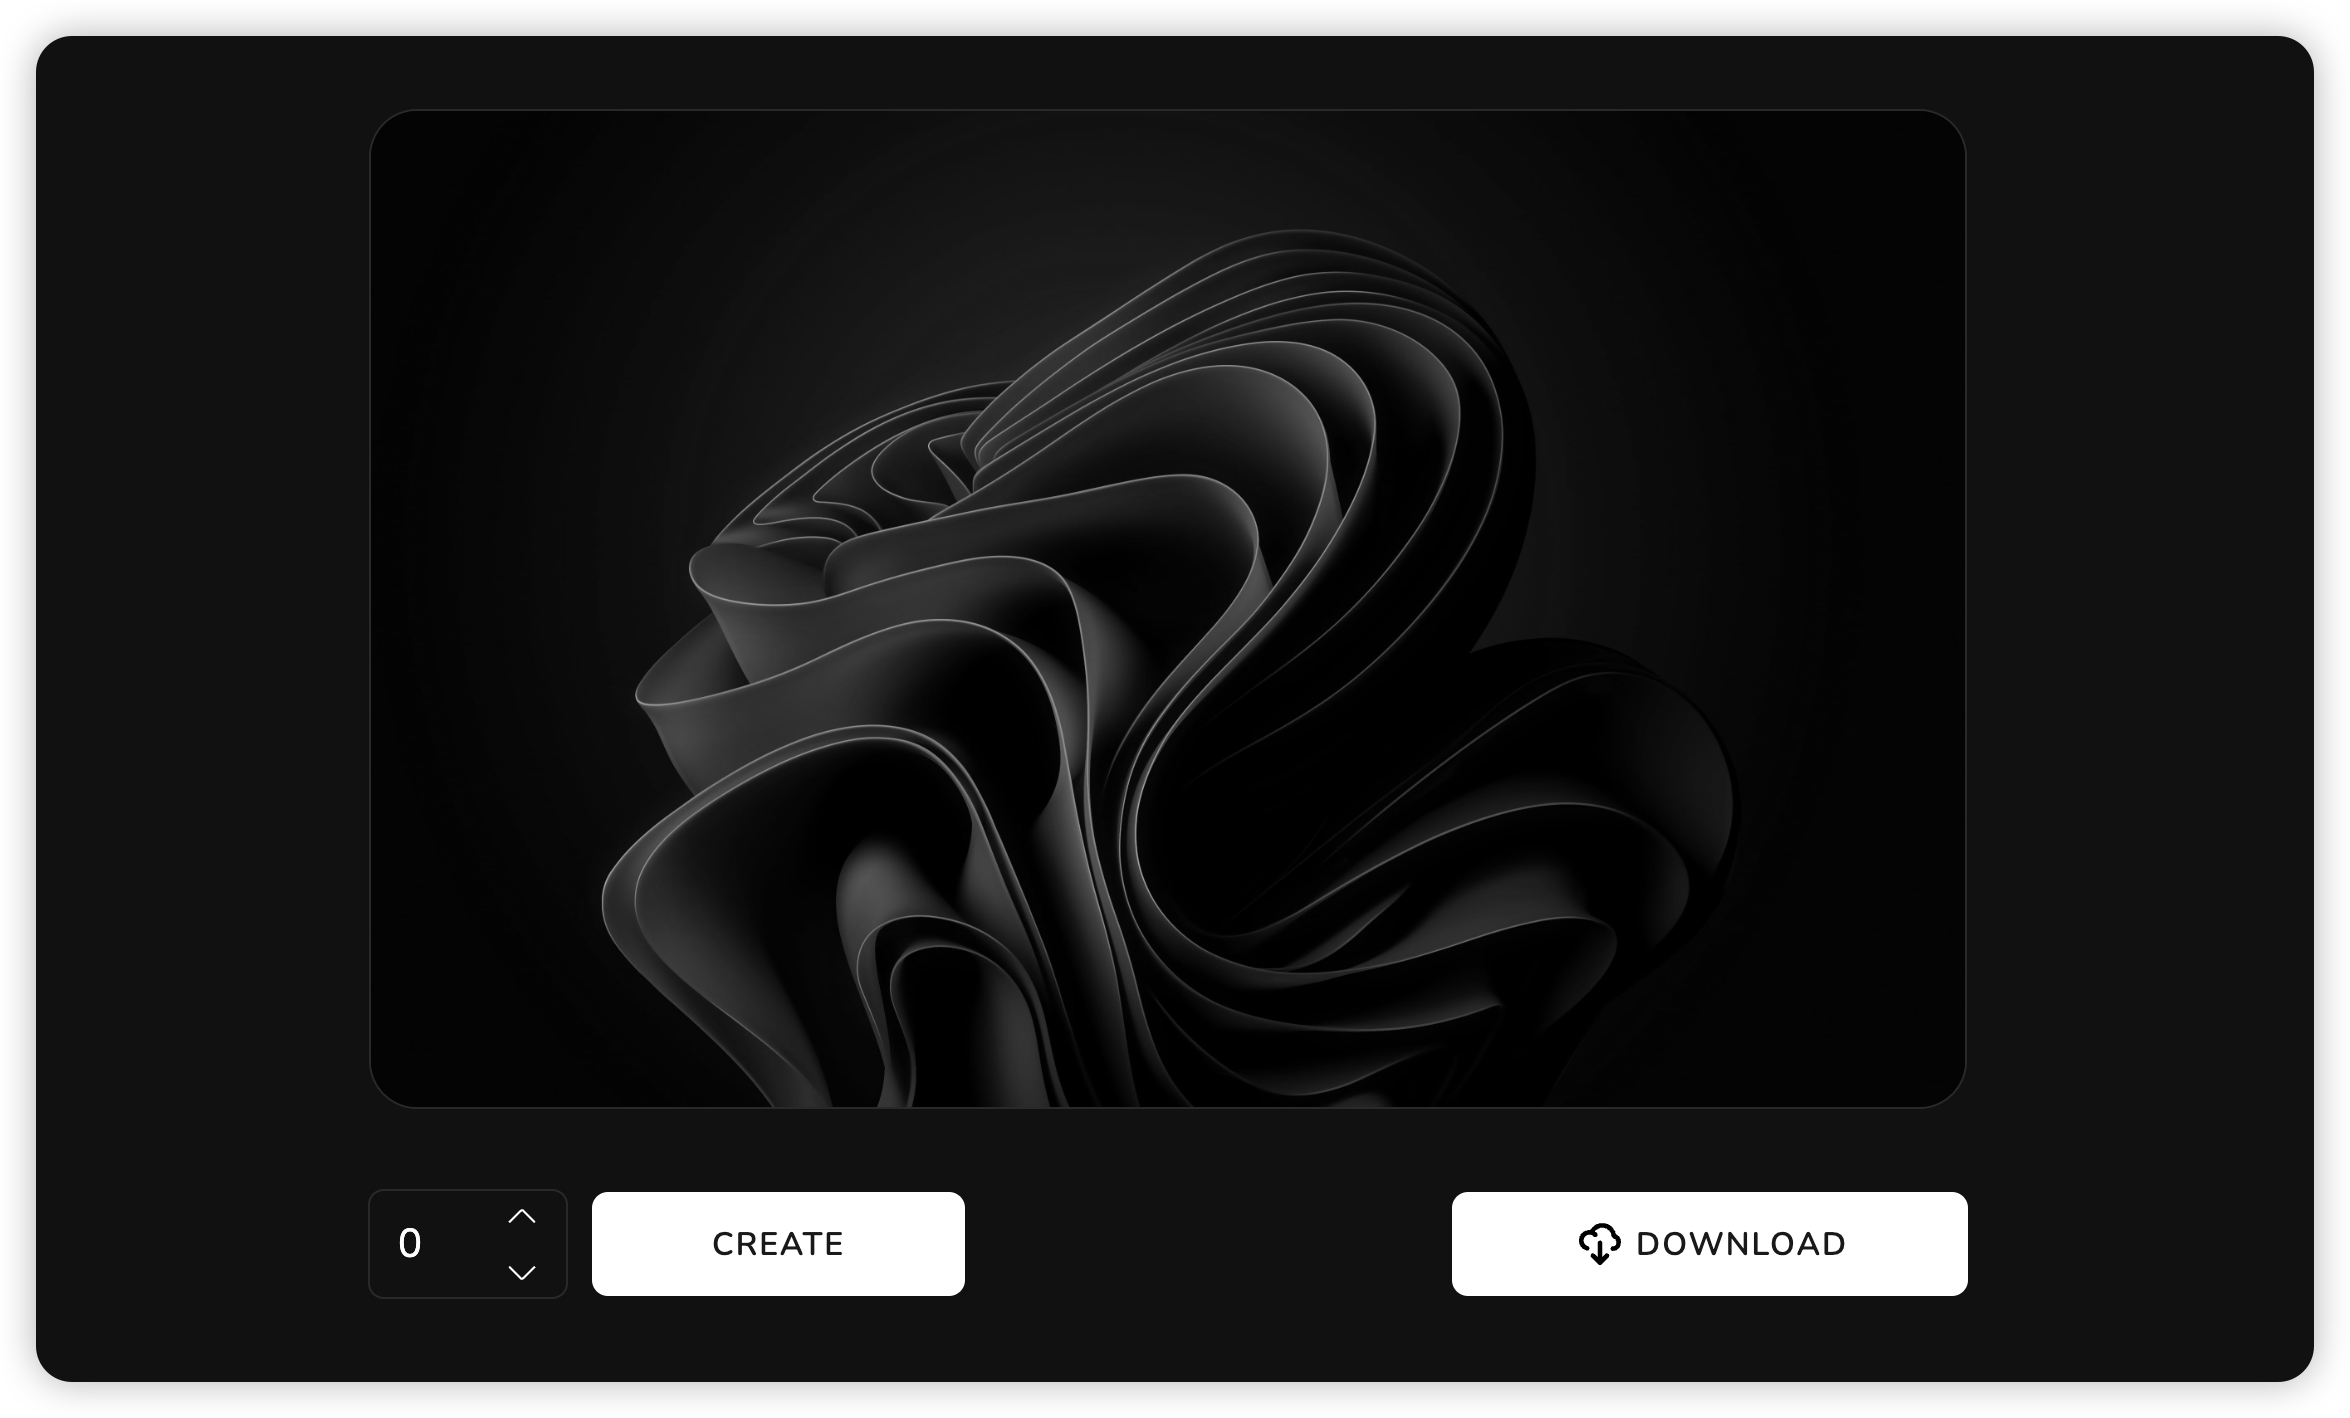
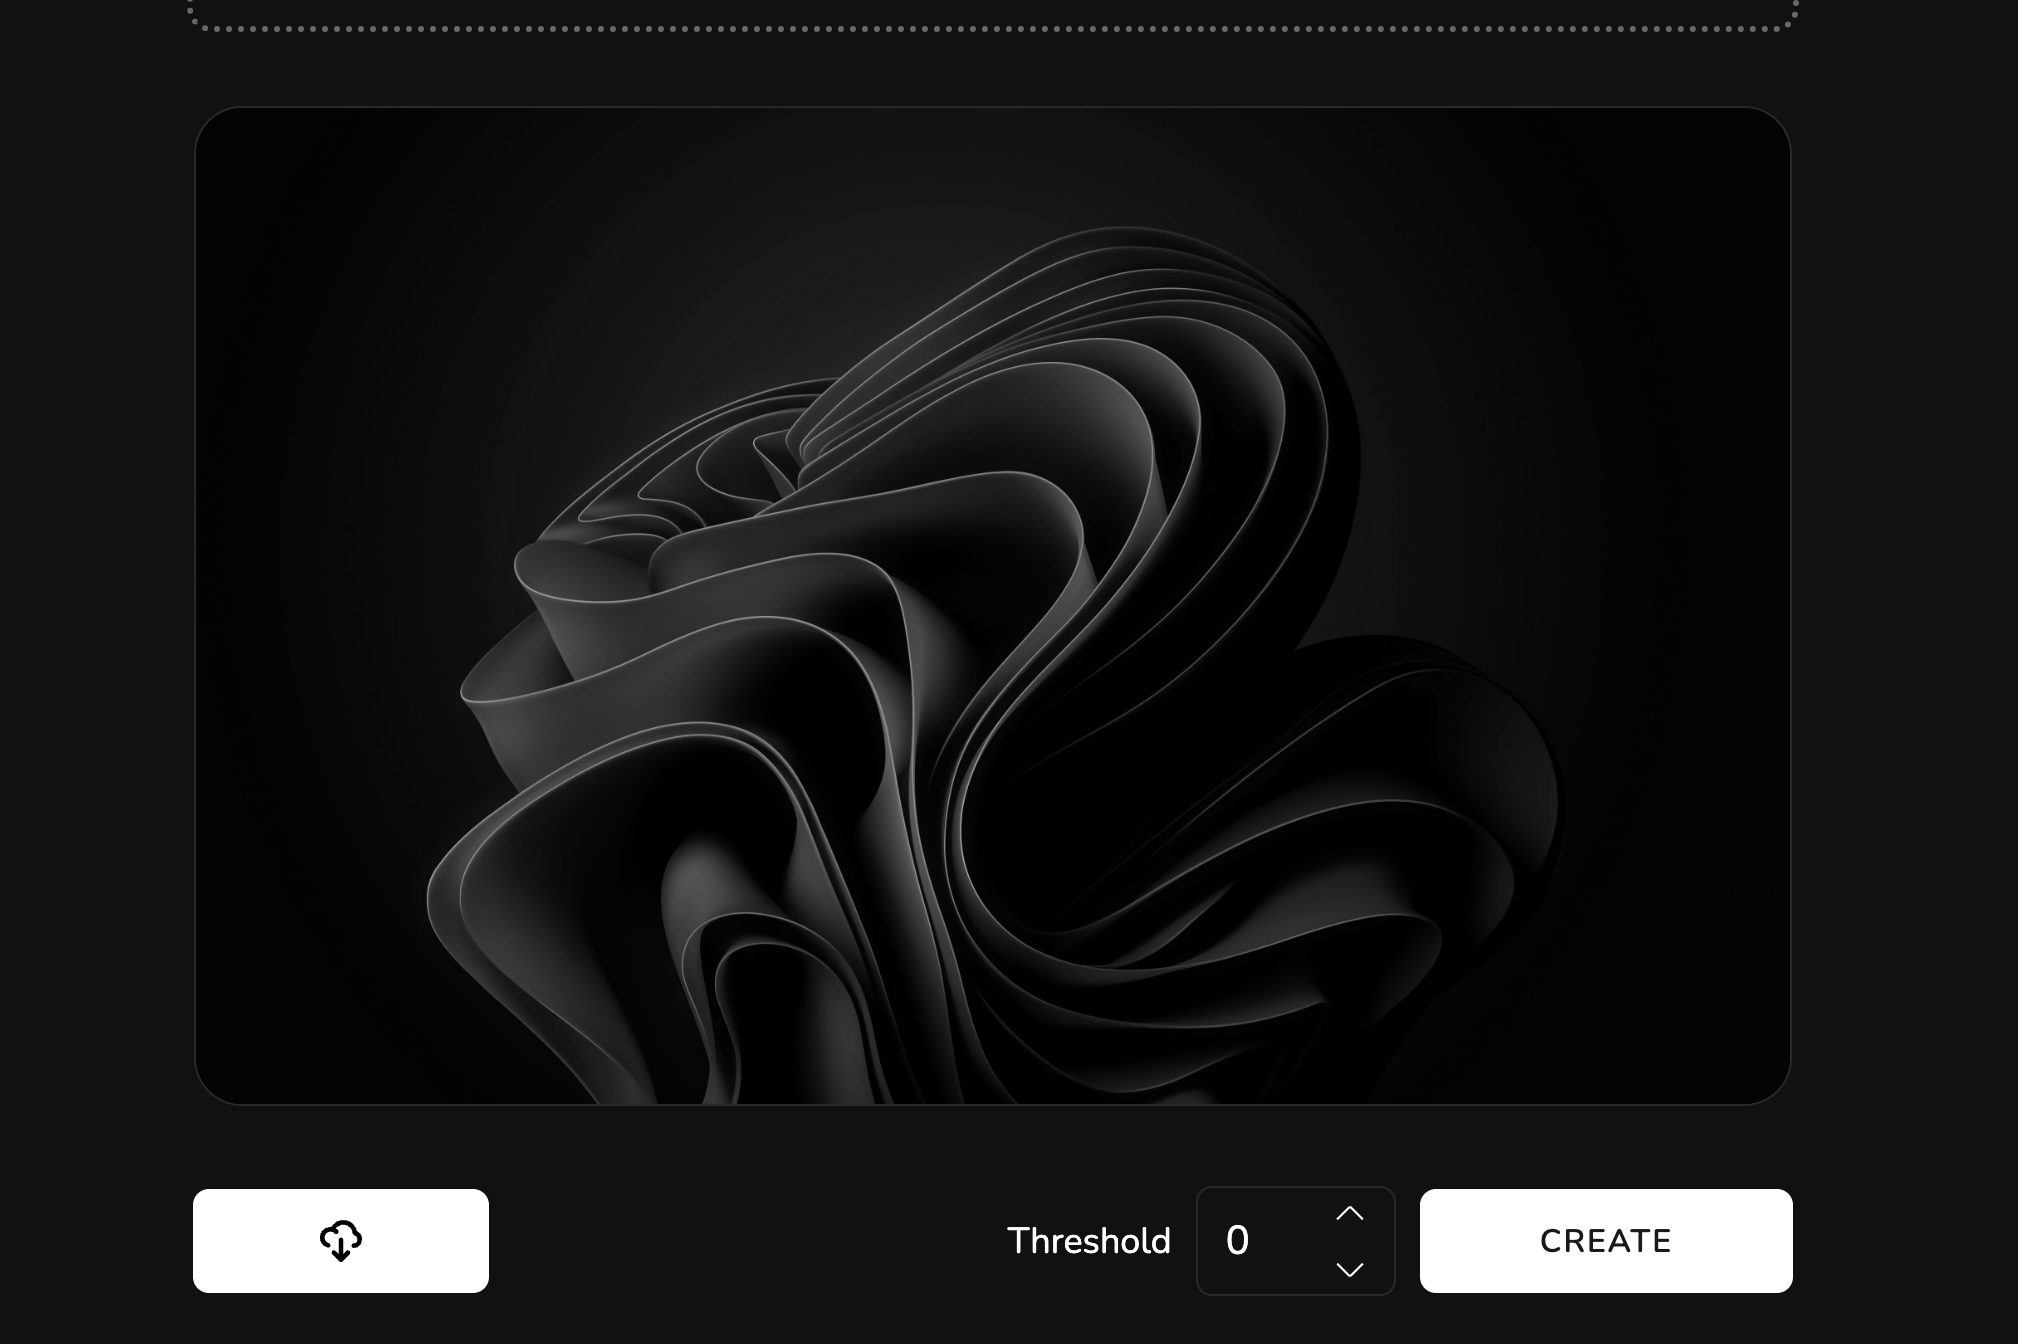
[Fix]Readme & image_project threshold 있는 캡쳐사진으로 변경

Changed region(s): [[0.0, 0.0, 1.0, 1.0]]

diff --git a/src/components/molecule/inputNumber/InputNumber.tsx b/src/components/molecule/inputNumber/InputNumber.tsx
@@ -1,4 +1,4 @@
-import { forwardRef } from "react";
+import { HTMLAttributes, forwardRef } from "react";
 import {
   ArrowContainer,
   Center,
@@ -7,16 +7,17 @@ import {
 } from "./InputNumberStyles";
 import * as Svg from "@/components/atoms/icon/index";
 
-interface InputNumberProps {
+interface InputNumberProps extends HTMLAttributes<HTMLInputElement> {
   onChangeConf: (e: React.MouseEvent<HTMLInputElement>) => void;
   onKeyDown: (e: React.KeyboardEvent<HTMLInputElement>) => void;
 }
 
 const InputNumber = forwardRef<HTMLInputElement, InputNumberProps>(
-  ({ onChangeConf, onKeyDown }, ref) => {
+  ({ id, onChangeConf, onKeyDown }, ref) => {
     return (
       <InputLayout>
         <RGBInput
+          id={id}
           ref={ref}
           type="number"
           step={0.1}

diff --git a/src/components/organism/image/dashboard/Dashboard.tsx b/src/components/organism/image/dashboard/Dashboard.tsx
@@ -30,8 +30,9 @@ const Dashboard = forwardRef<HTMLInputElement, DashboardProps>(
           </WrapperButton>
         </a>
         <Row>
-          <Threshold>Threshold</Threshold>
+          <Threshold htmlFor="threshold">Threshold</Threshold>
           <InputNumber
+            id="threshold"
             ref={ref}
             onChangeConf={onChangeConf}
             onKeyDown={onKeyDown}

diff --git a/src/components/organism/image/dashboard/DashboardStyles.ts b/src/components/organism/image/dashboard/DashboardStyles.ts
@@ -36,8 +36,9 @@ export const WrapperButton = styled.button`
   background-color: transparent;
 `;
 
-export const Threshold = styled.span`
+export const Threshold = styled.label`
   font-size: ${({ theme }) => theme.fontSize.small};
+  cursor: pointer;
 
   @media screen and (max-width: ${theme.deviceSize.tablet}) {
     font-size: ${({ theme }) => theme.fontSize.mini};
